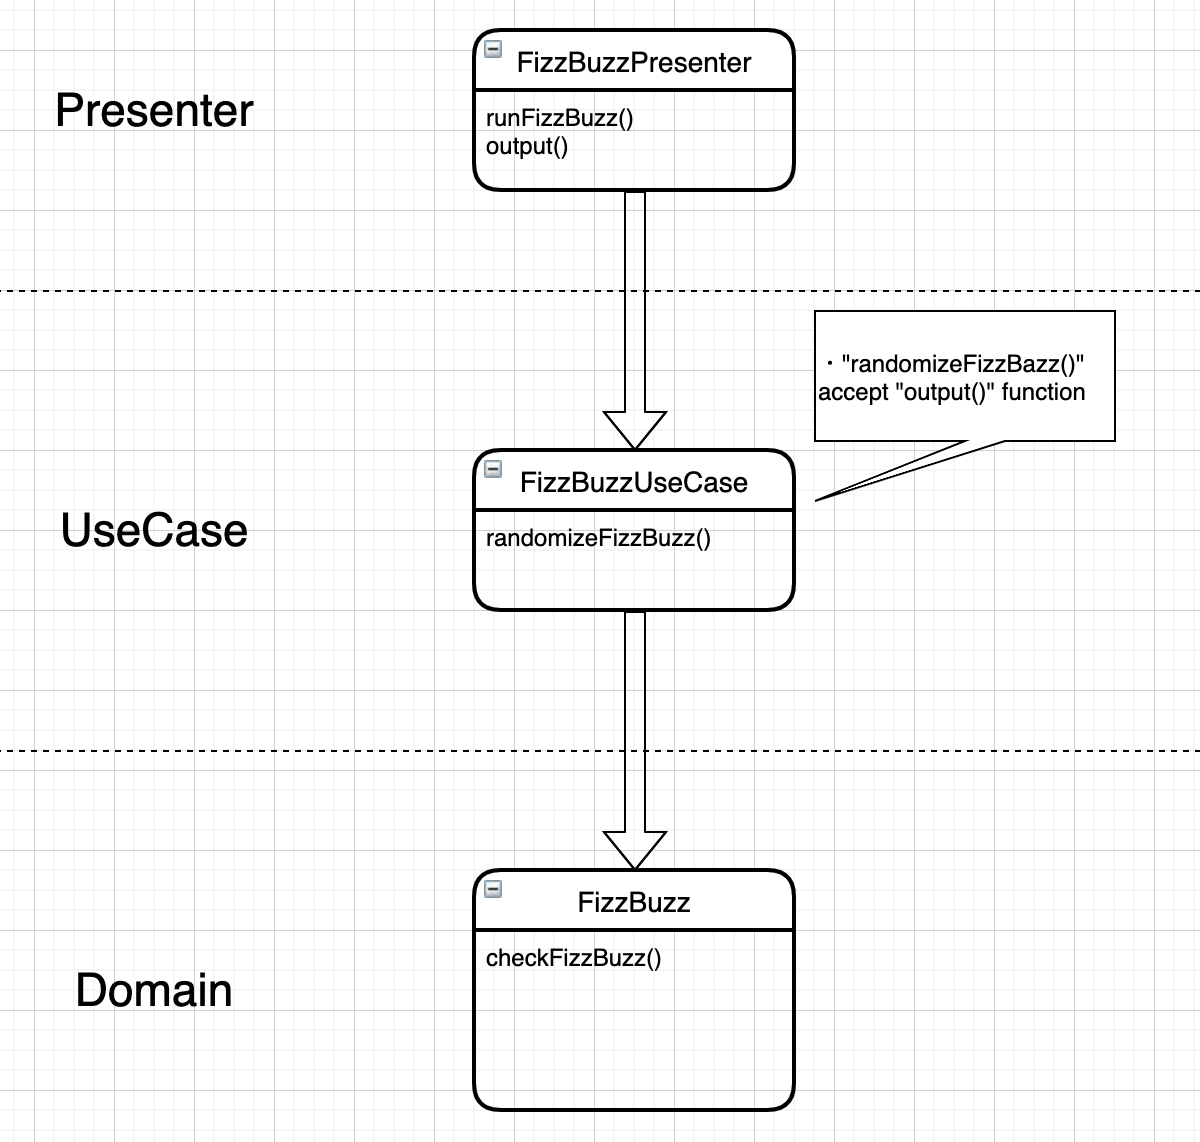
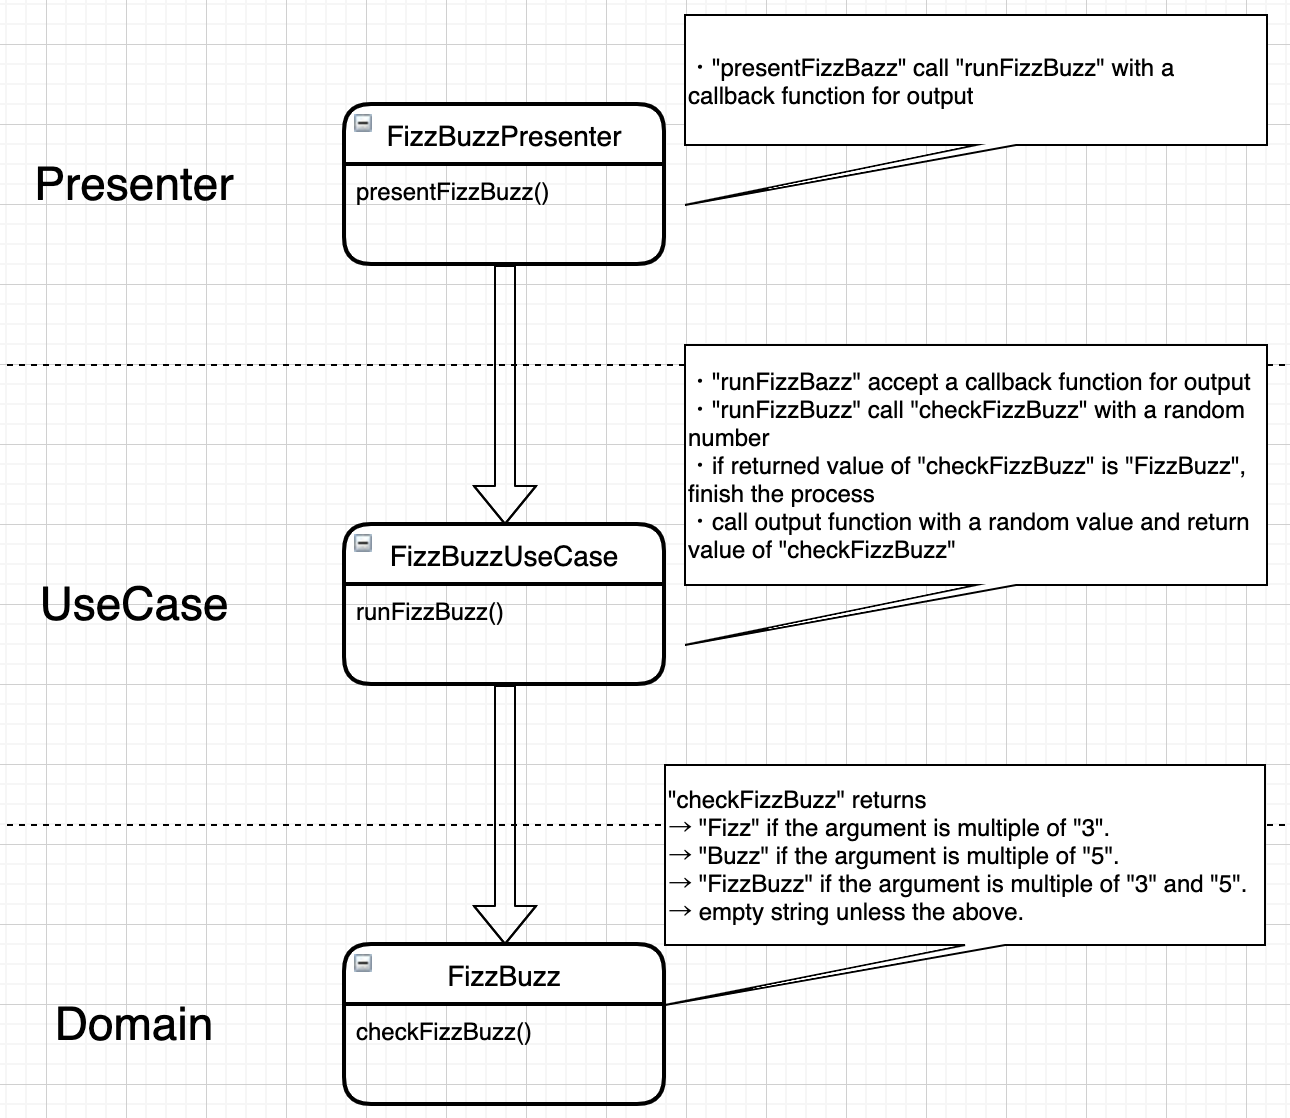
feat: step2 example

diff --git a/step2/example/src/usecase/FizzBuzzUsecase.spec.js b/step2/example/src/usecase/FizzBuzzUsecase.spec.js
@@ -1,25 +1,66 @@
 import FizzBuzz from '../domain/FizzBuzz';
-import { randomFizzBuzz } from './FizzBuzzUsecase';
+import { runFizzBuzz } from './FizzBuzzUsecase';
 
-jest.mock('../domain/FizzBuzz');
+const mockOutput = jest.fn();
 
-const mockCallback = jest.fn();
+let mockCheckFizzBuzz = jest.fn();
+jest.mock('../domain/FizzBuzz', () => {
+  return jest.fn().mockImplementation(() => {
+    return { checkFizzBuzz: mockCheckFizzBuzz };
+  });
+});
 
 beforeEach(() => {
   FizzBuzz.mockClear();
+  mockCheckFizzBuzz.mockClear();
+  mockOutput.mockClear();
 });
 
-describe('randomFizzBuzz', () => {
-  it('callback 100 times', () => {
-    randomFizzBuzz(mockCallback);
-    expect(mockCallback.mock.calls.length).toBe(100);
+describe('runFizzBuzz', () => {
+  it('finishes the process if FizzBuzz.checkFizzBuzz() returns "FizzBuzz"', () => {
+    // expect that checkFizzBuzz is called only one time
+    mockCheckFizzBuzz = jest.fn(() => 'FizzBuzz');
+    runFizzBuzz(mockOutput);
+    expect(mockCheckFizzBuzz.mock.calls.length).toBe(1);
   });
-  it('calls FizzBuzz constructer 1 times', () => {
-    randomFizzBuzz(mockCallback);
-    expect(FizzBuzz).toHaveBeenCalledTimes(1);
+
+  it('throws an error if FizzBuzz.checkFizzBuzz() does not return "FizzBuzz"', () => {
+    mockCheckFizzBuzz = jest.fn(() => '');
+    try {
+      runFizzBuzz(mockOutput);
+    } catch(e) {
+      expect(e.message).toBe('Did not return error in 1000 times');
+    }
   });
-  it('calls FizzBuzz.checkFizzBuzz() 100 times', () => {
-    randomFizzBuzz(mockCallback);
-    expect(FizzBuzz.mock.instances[0].checkFizzBuzz.mock.calls.length).toBe(100);
+
+  it('call output 1000 times if FizzBuzz.checkFizzBuzz() does not return "FizzBuzz"', () => {
+    mockCheckFizzBuzz = jest.fn(() => '');
+    try {
+      runFizzBuzz(mockOutput);
+    } catch {
+      expect(mockOutput.mock.calls.length).toBe(1000);
+    }
   });
-})
+
+  // it('calls FizzBuzz.checkFizzBuzz() random times', () => {
+  //   runFizzBuzz(mockOutput);
+  //   const numberOf1stTry = mockCheckFizzBuzz.mock.calls.length;
+  //   mockCheckFizzBuzz.mockClear();
+  //   runFizzBuzz(mockOutput);
+  //   const numberOf2ndTry = mockCheckFizzBuzz.mock.calls.length;
+  //   expect(numberOf1stTry).not.toBe(numberOf2ndTry);
+  // });
+
+  // it('callback 100 times', () => {
+  //   runFizzBuzz(mockOutput);
+  //   expect(mockOutput.mock.calls.length).toBe(100);
+  // });
+  // it('calls FizzBuzz constructer 1 times', () => {
+  //   runFizzBuzz(mockOutput);
+  //   expect(FizzBuzz).toHaveBeenCalledTimes(1);
+  // });
+  // it('calls FizzBuzz.checkFizzBuzz() 100 times', () => {
+  //   runFizzBuzz(mockOutput);
+  //   expect(FizzBuzz.mock.instances[0].checkFizzBuzz.mock.calls.length).toBe(100);
+  // });
+});

diff --git a/step2/example/src/presenter/FizzBuzzPresenter.spec.js b/step2/example/src/presenter/FizzBuzzPresenter.spec.js
@@ -1,11 +1,11 @@
-import { runFizzBuzz } from './FizzBuzzPresenter';
-import { randomFizzBuzz } from '../usecase/FizzBuzzUsecase';
+import { presentFizzBuzz } from './FizzBuzzPresenter';
+import { runFizzBuzz } from '../usecase/FizzBuzzUsecase';
 
 jest.mock('../usecase/FizzBuzzUsecase');
 
-describe('runFizzBuzz', () => {
-  it('call randomFizzBuzz()', () => {
-    runFizzBuzz();
-    expect(randomFizzBuzz.mock.calls.length).toBe(1);
+describe('presentFizzBuzz', () => {
+  it('call runFizzBuzz()', () => {
+    presentFizzBuzz();
+    expect(runFizzBuzz.mock.calls.length).toBe(1);
   });
 })

diff --git a/step2/example/src/usecase/FizzBuzzUsecase.js b/step2/example/src/usecase/FizzBuzzUsecase.js
@@ -1,9 +1,14 @@
 import FizzBuzz from '../domain/FizzBuzz';
 
-export const randomFizzBuzz = cb => {
+export const runFizzBuzz = output => {
   const fz = new FizzBuzz();
-  for (let i=1; i<=100; i++) {
-    const result = fz.checkFizzBuzz(i);
-    cb(result);
+
+  for (let i=1; i<=1000; i++) {
+    const num = Math.floor(Math.random()*100) + 1;
+    const result = fz.checkFizzBuzz(num);
+    output(num, result);
+    if (result === "FizzBuzz") return;
   }
+
+  throw new Error('Did not return error in 1000 times');
 };

diff --git a/step2/example/src/domain/FizzBuzz.spec.js b/step2/example/src/domain/FizzBuzz.spec.js
@@ -23,9 +23,9 @@ describe('FizzBuzz', () => {
       expect(result).toBe("FizzBuzz");
     })
 
-    it('returns number if argument is not multiple of 3 or 5', () => {
+    it('returns empty if argument is not multiple of 3 or 5', () => {
       const result = fz.checkFizzBuzz(2);
-      expect(result).toBe(2);
+      expect(result).toBe("");
     })
   })
 });

diff --git a/step2/example/src/presenter/FizzBuzzPresenter.js b/step2/example/src/presenter/FizzBuzzPresenter.js
@@ -1,3 +1,3 @@
-import { randomFizzBuzz } from '../usecase/FizzBuzzUsecase';
+import { runFizzBuzz } from '../usecase/FizzBuzzUsecase';
 
-export const runFizzBuzz = () => randomFizzBuzz((str) => console.log(str));
+export const presentFizzBuzz = () => runFizzBuzz((num, result) => console.log(num, result));

diff --git a/step2/example/src/domain/FizzBuzz.js b/step2/example/src/domain/FizzBuzz.js
@@ -7,7 +7,7 @@ export default class FizzBuzz {
     } else if (num % 5 === 0) {
       return "Buzz";
     } else {
-      return num;
+      return "";
     }
   }
 }
